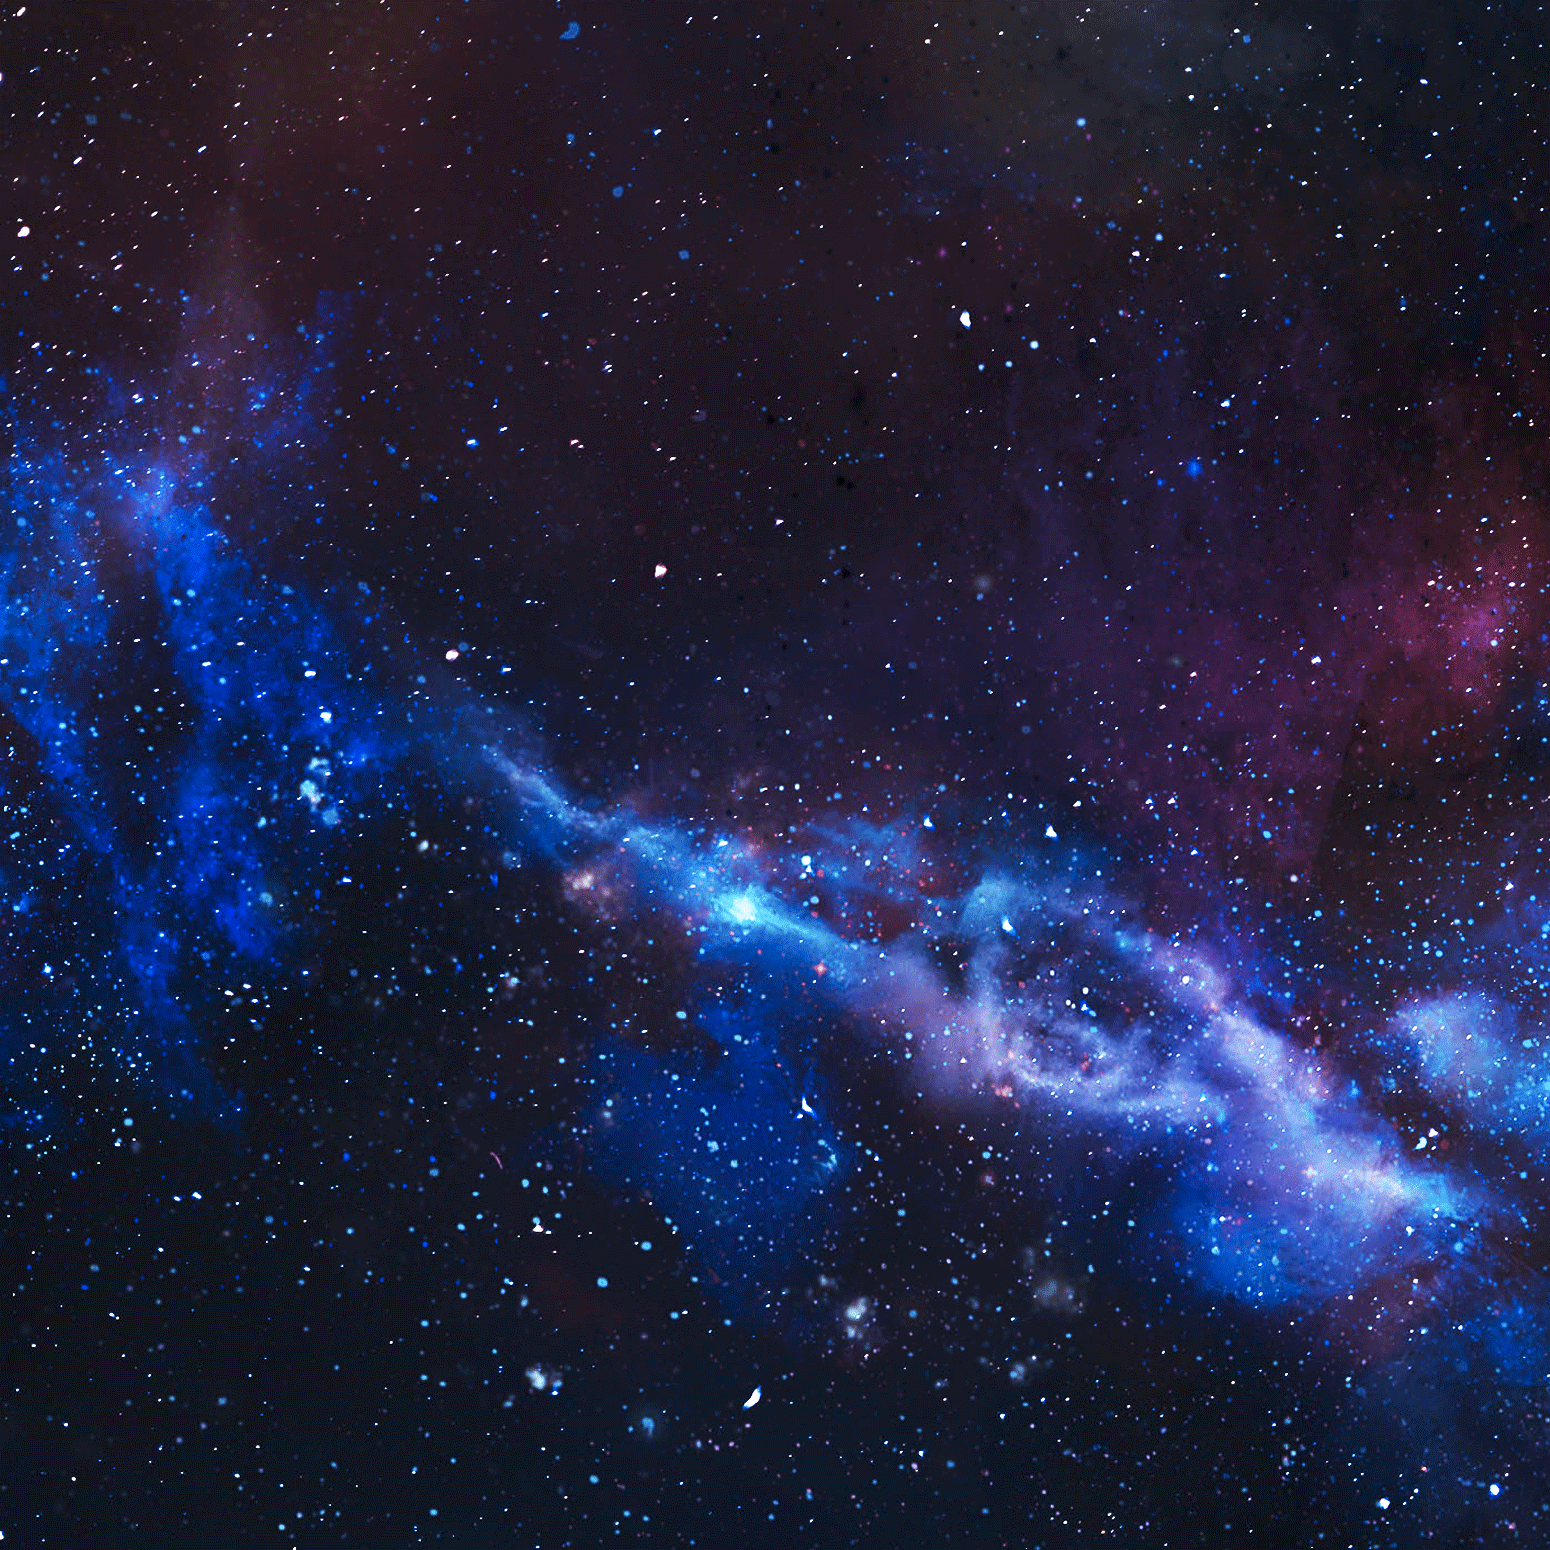
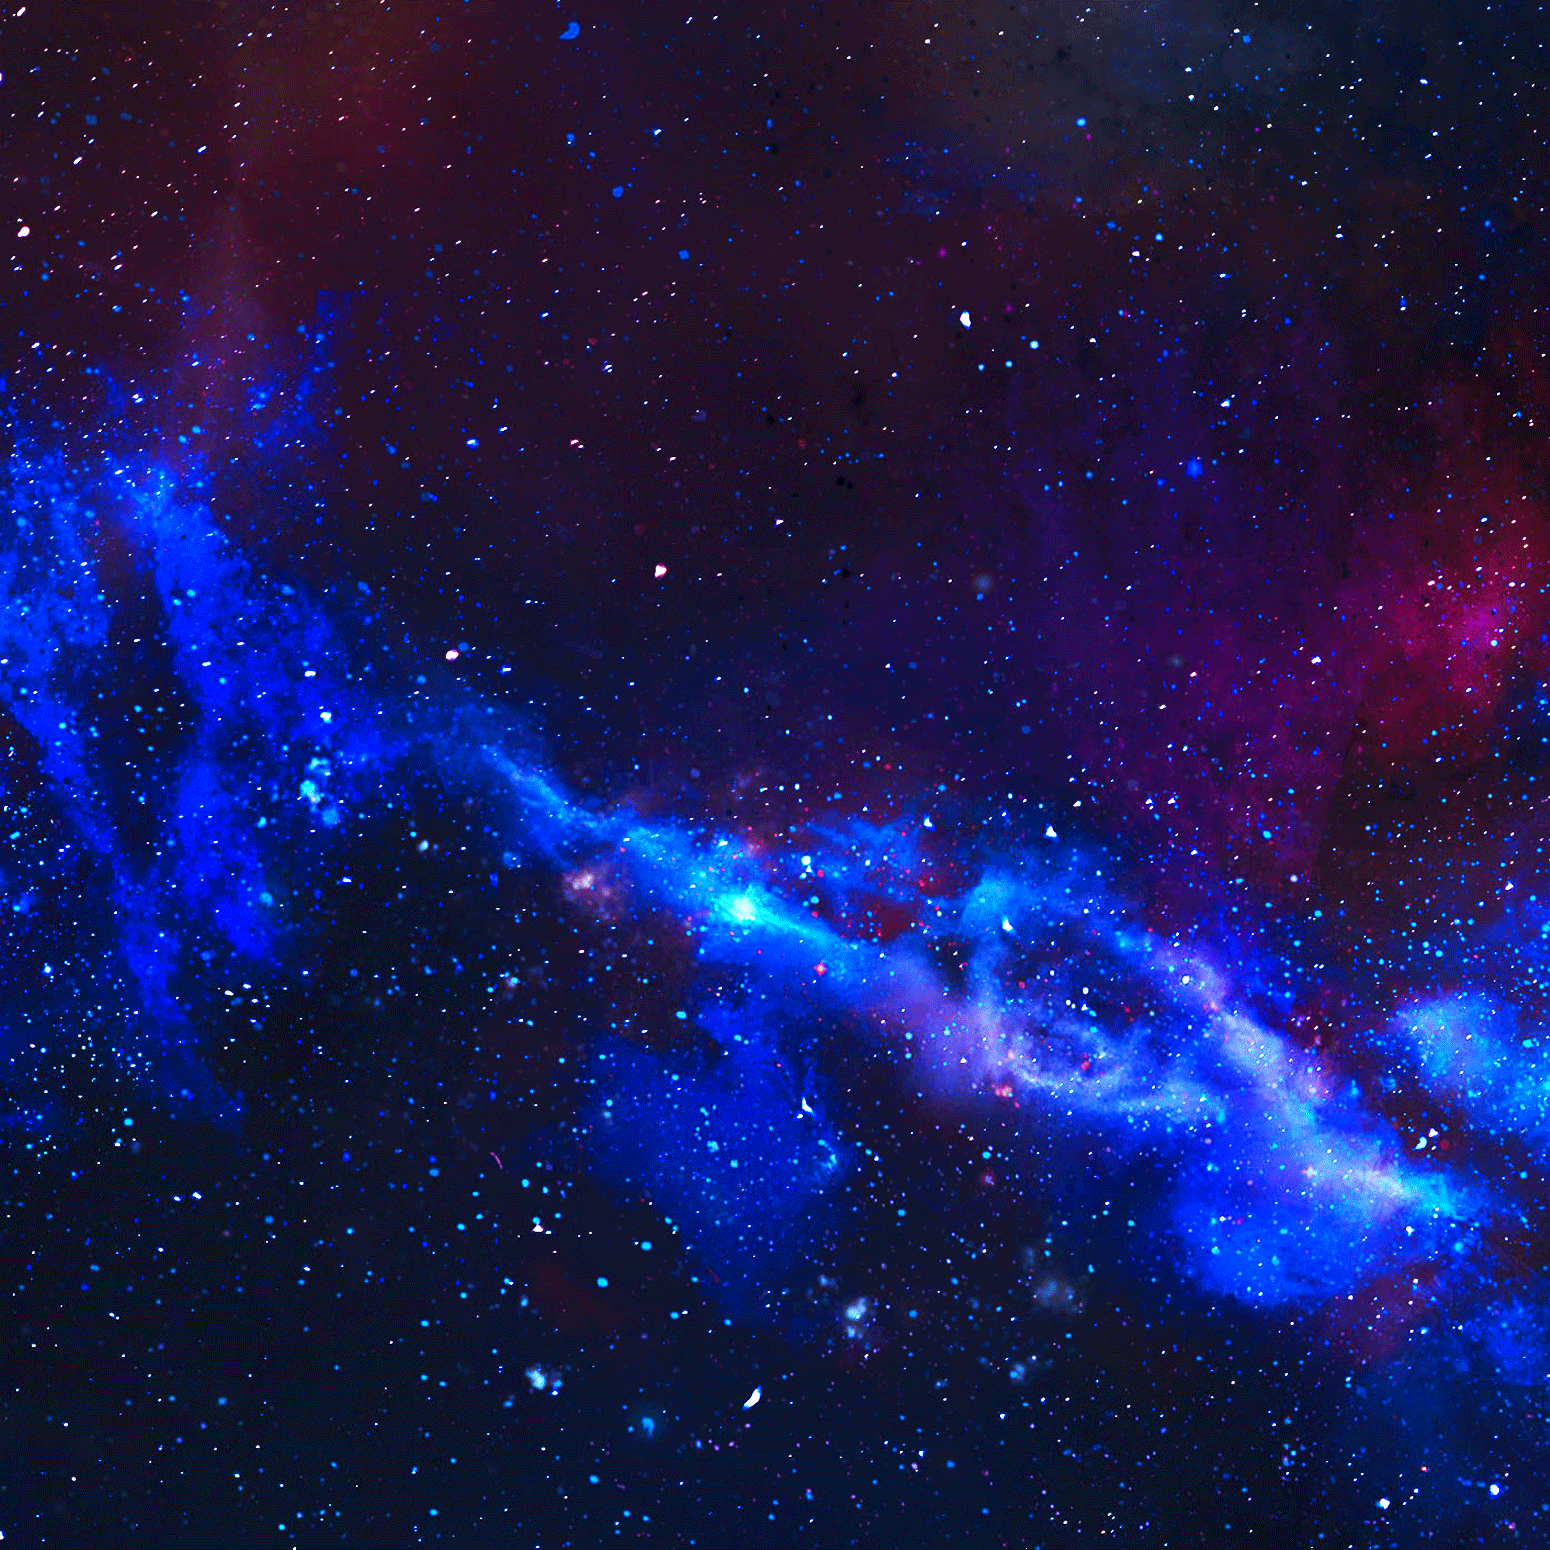
added ring centring

diff --git a/js/css3worldspace.js b/js/css3worldspace.js
@@ -46,7 +46,7 @@ function getCSS3D_cameraStyle(camera, fov) {
     camera.updateProjectionMatrix();
     var cssStyle = "";
     cssStyle += "translate3d(0,0," + epsilon(fov) + "px) ";
-    cssStyle += toCSSMatrix(camera.matrixWorldInverse, true);
+    cssStyle += toCSSMatrix(camera.matrixWorldInverse, true,camera.position.z);
     cssStyle += " translate3d(" + screenWhalf + "px," + screenHhalf + "px, 0)";
     return cssStyle;
 }
@@ -54,13 +54,15 @@ function getCSS3D_cameraStyle(camera, fov) {
 /************************************************************************/
 /* Fixes the difference between WebGL coordinates to CSS coordinates    */
 /************************************************************************/
-var tr = true
-function toCSSMatrix(threeMat4, b, offsetX, offsetY) {
+// var tr = true
+function toCSSMatrix(threeMat4, b, offsetX, offsetY,camZ) {
     var a = threeMat4, f;
-    if(!b && tr){
-    console.log(a)
-    tr= false
-}
+    // if(!b && tr){
+    offsetY = offsetY/3
+
+    // console.log(a.elements[13] + (offsetY+88)*((camZ-300)/1950)*((camZ-300)/1950)-4)
+    // tr= false
+// }
     if (b) {
         f = [
             a.elements[0], -a.elements[1], a.elements[2], a.elements[3] ,
@@ -73,7 +75,7 @@ function toCSSMatrix(threeMat4, b, offsetX, offsetY) {
             a.elements[0] , a.elements[1], a.elements[2], a.elements[3],
             a.elements[4], a.elements[5], a.elements[6], a.elements[7],
             a.elements[8], a.elements[9], a.elements[10], a.elements[11],
-            a.elements[12] + (offsetX || 0), a.elements[13] + (offsetY || 0), a.elements[14], a.elements[15]
+            a.elements[12] - 0.42*(offsetX||0)*((camZ-780)/550)*((camZ-780)/550)-4.99*(camZ+0)/3000, a.elements[13] + (offsetY+8)*((camZ-320)/1950)*((camZ-320)/1950)+3.4 , a.elements[14], a.elements[15]
         ];                  // Hack to make sure the text is centered
     }
     for (var e in f) {
@@ -85,10 +87,10 @@ function toCSSMatrix(threeMat4, b, offsetX, offsetY) {
 /************************************************************************/
 /* Computes CSS3D transformations based on a Three Object                */
 /************************************************************************/
-function setDivPosition(cssObject, glObject, scale) {
+function setDivPosition(cssObject, glObject, scale,camZ) {
     glObject.updateMatrix();
     cssObject.style.position = "absolute";
-    var transformation = CSStransform(1.0, 3.5, glObject.matrixWorld, scale);
+    var transformation = CSStransform(1.0, 3.5, glObject.matrixWorld, scale,camZ);
     //Webkit:
     cssObject.style.WebkitTransformOrigin = "0% 0%";
     cssObject.style.WebkitTransform = transformation;
@@ -100,8 +102,8 @@ function setDivPosition(cssObject, glObject, scale) {
 /************************************************************************/
 /* Helper function to convert to CSS3D transformations                  */
 /************************************************************************/
-function CSStransform(width, height, matrix, scale) {
-    return [toCSSMatrix(matrix, false, width, height),
+function CSStransform(width, height, matrix, scale,camZ) {
+    return [toCSSMatrix(matrix, false, width, height,camZ),
     "scale3d(" + scale + ", -" + scale + ", " + scale + ")",
     "translate3d(0,0,0)"].join(" ");
 }

diff --git a/js/solarsystem.js b/js/solarsystem.js
@@ -92,8 +92,8 @@ function makeKuiperBelt(){
 function makeSolarSystem(){
 	var solarSystem = new THREE.Object3D();
 
-	var oortCloud = makeOortCloud();
-	solarSystem.add( oortCloud );
+	// var oortCloud = makeOortCloud();
+	// solarSystem.add( oortCloud );
 
 	// var kuiperBelt = makeKuiperBelt();
 	// solarSystem.add( kuiperBelt );
@@ -192,6 +192,49 @@ function makeSolarSystem(){
 	// earth.add( createSpaceRadius( KMToLY(402652), 0xffffff, 16.0 ) );
 
 	//	mars
+	// var color = new THREE.Color( 0xff0000 );
+	// var fog1 = new THREE.Fog(color,0.1,10000)
+	// solarSystem.add(fog1)
+	var diskGeometry1 = [];
+	var diskMaterial1 = [];
+	var disk1 = [];
+	var disks = []
+	for(var hj = 0 ;hj<1000;hj++){
+		diskGeometry1.push(new THREE.RingGeometry( 3*KMToLY(100000000 + 30*hj*10000), 3*KMToLY(108000000 +30*(hj+1)*10000), 32 ));
+		if(hj < 500){
+			if(hj%2)
+			diskMaterial1.push(new THREE.MeshBasicMaterial( { color: 0x00ff00, side: THREE.DoubleSide,transparent:true,opacity: Math.min((hj*hj)/(10000*(1000-hj)),0.0025) } ));
+			else
+			diskMaterial1.push(new THREE.MeshBasicMaterial( { color: 0x0000ff, side: THREE.DoubleSide,transparent:true,opacity: Math.min((hj*hj)/(10000*(1000-hj)),0.0025) } ));
+
+		}
+		else{
+			if(hj%2)
+			diskMaterial1.push(new THREE.MeshBasicMaterial( { color: 0x0000ff, side: THREE.DoubleSide,transparent:true,opacity: Math.min((1000-hj)*(1000-hj)/(10000*hj),0.0025) } ));
+			else
+			diskMaterial1.push(new THREE.MeshBasicMaterial( { color: 0x00ff00, side: THREE.DoubleSide,transparent:true,opacity: Math.min((1000-hj)*(1000-hj)/(10000*hj),0.0025) } ));
+
+		}
+		disk1.push(new THREE.Mesh( diskGeometry1[hj], diskMaterial1[hj] ));
+		disk1[hj].rotation.x = Math.PI/2;
+		// disks.push(disk1)
+		solarSystem.add(disk1[hj])
+	}
+
+	// var diskGeometry2 = new THREE.RingGeometry( 3*KMToLY(108000000), 3*KMToLY(230000000), 32 );
+	// var diskMaterial2 = new THREE.MeshBasicMaterial( { color: 0x00ff00, side: THREE.DoubleSide,transparent:true,opacity: 0.1 } );
+	// diskMaterial2.fog = true
+	// var disk2 = new THREE.Mesh( diskGeometry2, diskMaterial2 );
+	// disk2.rotation.x = Math.PI/2;
+	// solarSystem.add(disk2)
+
+
+	// var diskGeometry3 = new THREE.RingGeometry( 3*KMToLY(230000000), 3*KMToLY(260000000), 32 );
+	// var diskMaterial3 = new THREE.MeshBasicMaterial( { color: 0x00ff00, side: THREE.DoubleSide,transparent:true,opacity: 0.06 } );
+	// var disk3 = new THREE.Mesh( diskGeometry3, diskMaterial3 );
+	// disk3.rotation.x = Math.PI/2;
+	// solarSystem.add(disk3)
+
 	solarSystem.add( createSpaceRadius( 3*KMToLY(230000000), /*0xCE6747*/ 0xffffff ) );	
 	// var mars = createPlanet( 230000000, 3396.2 );
 		var mars=[]
@@ -254,12 +297,12 @@ function makeSolarSystem(){
 	//	pioneer
 	//	18220700000 KM out
 
-	oortCloud.update = function(){
-		if( camera.position.z > 40 && camera.position.z < 600 )
-			this.visible = true;
-		else
-			this.visible = false;
-	}
+	// oortCloud.update = function(){
+	// 	if( camera.position.z > 40 && camera.position.z < 600 )
+	// 		this.visible = true;
+	// 	else
+	// 		this.visible = false;
+	// }
 
 	//makeSunEarthDiagram();
 

diff --git a/js/hipparcos.js b/js/hipparcos.js
@@ -208,7 +208,7 @@ function generateHipparcosStars(){
 			container.add(g);
 
 			// starPreview.name = star.name;
-			// g.name = p.name;
+			g.name = p.name;
 			g.spectralIndex = p.spectralIndex;
 			// console.log(g.name);
 			g.position.copy(p);
@@ -297,15 +297,15 @@ function generateHipparcosStars(){
 
 	//	-----------------------------------------------------------------------------
 	//	attach lines from star to plane base
-	// var lineMesh = new THREE.Line( pLineGeo, new THREE.LineBasicMaterial({
-	// 	color: 			0x333333,
-	// 	blending: 		THREE.AdditiveBlending,
-	// 	depthTest: 		false,
-	// 	depthWrite: 	false,
-	// 	transparent:	true,
+	var lineMesh = new THREE.Line( pLineGeo, new THREE.LineBasicMaterial({
+		color: 			0x333333,
+		blending: 		THREE.AdditiveBlending,
+		depthTest: 		false,
+		depthWrite: 	false,
+		transparent:	true,
 
-	// }), THREE.LinePieces );
-	// pSystem.add( lineMesh );
+	}), THREE.LinePieces );
+	pSystem.add( lineMesh );
 
 	//	-----------------------------------------------------------------------------
 	//	create a ring of degree marks around the plane
@@ -331,7 +331,7 @@ function generateHipparcosStars(){
 	var starBaseMaterial = new THREE.MeshBasicMaterial({
 		map: starBaseTexture,
 		blending: THREE.AdditiveBlending,
-		transparent: false,
+		transparent: true,
 		depthTest: false,
 		depthWrite: false,
 		side: THREE.DoubleSide,
@@ -348,6 +348,7 @@ function generateHipparcosStars(){
 	var baseGeometryCombined = new THREE.Geometry();
 	var circles = new THREE.Object3D();
 	for( var i in pGeo.vertices ){
+		// 402343595217f687a5df1a318941a545bd57b61aconsole.log(i)
 		var p = pGeo.vertices[i];
 		if( p.name!==undefined && p.name.length > 0 ){
 			var geo = starBaseGeometry.clone();
@@ -423,20 +424,20 @@ function generateHipparcosStars(){
 		datastarUniforms.sceneSize.value = 10000;
 	}
 
-	// lineMesh.update = function(){
-	// 	if( camera.position.z < 1500 ){
-	// 		this.material.opacity = constrain( (camera.position.z - 400.0) * 0.002, 0, 1); 
-	// 	}
-	// 	else{
-	// 		this.material.opacity += (0.0 - this.material.opacity) * 0.1;
-	// 	}
+	lineMesh.update = function(){
+		if( camera.position.z < 1500 ){
+			this.material.opacity = constrain( (camera.position.z - 400.0) * 0.002, 0, 1); 
+		}
+		else{
+			this.material.opacity += (0.0 - this.material.opacity) * 0.1;
+		}
 
-	// 	//	some basic LOD
-	// 	if( camera.position.z < 250 )
-	// 		this.visible = false;
-	// 	else
-	// 		this.visible = true;
-	// }
+		//	some basic LOD
+		if( camera.position.z < 250 )
+			this.visible = false;
+		else
+			this.visible = true;
+	}
 
 	return container;
 }

diff --git a/js/skybox.js b/js/skybox.js
@@ -10,14 +10,14 @@ function setupSkyboxScene(){
 
 function initSkybox( highres ){
 	setLoadMessage("Loading internal stars")
-	var r = "images/ss_skybox/";
+	var r = "images/ss_skybi/";
 
 	if( highres == false )
 		r += "s_";
 
-	var urls = [ r + "px.jpg", r + "nx.jpg",
-				 r + "py.jpg", r + "ny.jpg",
-				 r + "pz.jpg", r + "nz.jpg" ];
+	var urls = [ r + "px.png", r + "nx.png",
+				 r + "py.png", r + "ny.png",
+				 r + "pz.png", r + "nz.png" ];
 
 	var textureCube = THREE.ImageUtils.loadTextureCube( urls, undefined, setLoadMessage("Loading interstellar bodies") );
 	textureCube.anisotropy = maxAniso;
@@ -27,11 +27,11 @@ function initSkybox( highres ){
 	skyboxUniforms = shader.uniforms;
 	var skyboxMat = new THREE.ShaderMaterial( {
 		fragmentShader: shaderList.cubemapcustom.fragment,
-		vertexShader: shaderList.cubemapcustom.vertex,
-		uniforms: shader.uniforms,
-		side: THREE.BackSide,
-		depthWrite: false,
-		depthTest: false,
+		vertexShader: 	shaderList.cubemapcustom.vertex,
+		uniforms: 		shader.uniforms,
+		side: 			THREE.BackSide,
+		depthWrite: 	false,
+		depthTest: 		false,
 	} );
 
 	skybox = new THREE.Mesh( new THREE.CubeGeometry( 100, 100, 100 ), skyboxMat );
@@ -65,7 +65,7 @@ function updateSkybox(override){
 	cameraCube.fov = constrain( camera.position.z * 20.0, 60, 70);
 	cameraCube.updateProjectionMatrix();
 
-	var skyboxBrightness = constrain(1400 / camera.position.z, 0.0, 1.0);
+	var skyboxBrightness = constrain(1.4 / camera.position.z, 0.0, 1.0);
 	skyboxUniforms["opacity"].value = skyboxBrightness;
 	// skyboxUniforms["opacity"].value = 1.0;
 }

diff --git a/js/bigbox.js b/js/bigbox.js
@@ -34,7 +34,7 @@ function initSkybox( highres ){
 		depthTest: false,
 	} );
 
-	skybox = new THREE.Mesh( new THREE.CubeGeometry( 1000, 1000, 1000 ), skyboxMat );
+	skybox = new THREE.Mesh( new THREE.CubeGeometry( 100, 100, 100 ), skyboxMat );
 	sceneCube.add( skybox );
 }
 
@@ -65,7 +65,7 @@ function updateSkybox(override){
 	cameraCube.fov = constrain( camera.position.z * 20.0, 60, 70);
 	cameraCube.updateProjectionMatrix();
 
-	var skyboxBrightness = constrain(1400 / camera.position.z, 0.0, 1.0);
+	var skyboxBrightness = constrain(50 / camera.position.z, 0.0, 1.0);
 	skyboxUniforms["opacity"].value = skyboxBrightness;
 	// skyboxUniforms["opacity"].value = 1.0;
 }

diff --git a/js/marker.js b/js/marker.js
@@ -36,7 +36,7 @@ function attachMarker( obj, size ){
 
 	marker.spectralIndex = obj.spectralIndex;
 
-	setDivPosition( marker, obj );
+	setDivPosition( marker, obj ,2000);
 
 	var nameLayer = marker.children[0];
 
@@ -234,7 +234,7 @@ function attachMarker( obj, size ){
 		var s = (0.05 + camera.position.z / 2000) * this.size;
 		s = constrain( s, 0, 1 );
 
-		setDivPosition( this, this.obj, s );
+		setDivPosition( this, this.obj, s ,camera.position.z);
 		this.setVisible( camera.markersVisible );
 
 	};

diff --git a/index.html b/index.html
@@ -127,8 +127,8 @@
 		<script>
 			var $loadText = $('#loadtext');
 			function setLoadMessage(msg){
-				$loadText.html(msg+"&hellip;");
-			}
+				// $loadText.html(msg+"&hellip;");
+				console.log(msg);			}
 		</script>
 			<script type="application/x-glsl" id="sky-vertex">  
 		varying vec2 vUV;

diff --git a/styles/style.css b/styles/style.css
@@ -54,8 +54,8 @@ body {
    See http://ie.microsoft.com/testdrive/HTML5/msUserSelect/
   */
   -ms-user-select: none;
-  width: 40px;
-  height: 40px;
+  width: 50px;
+  height: 50px;
   border: 2px solid blue;
   border-radius: 50%;
   /*left:;*/
